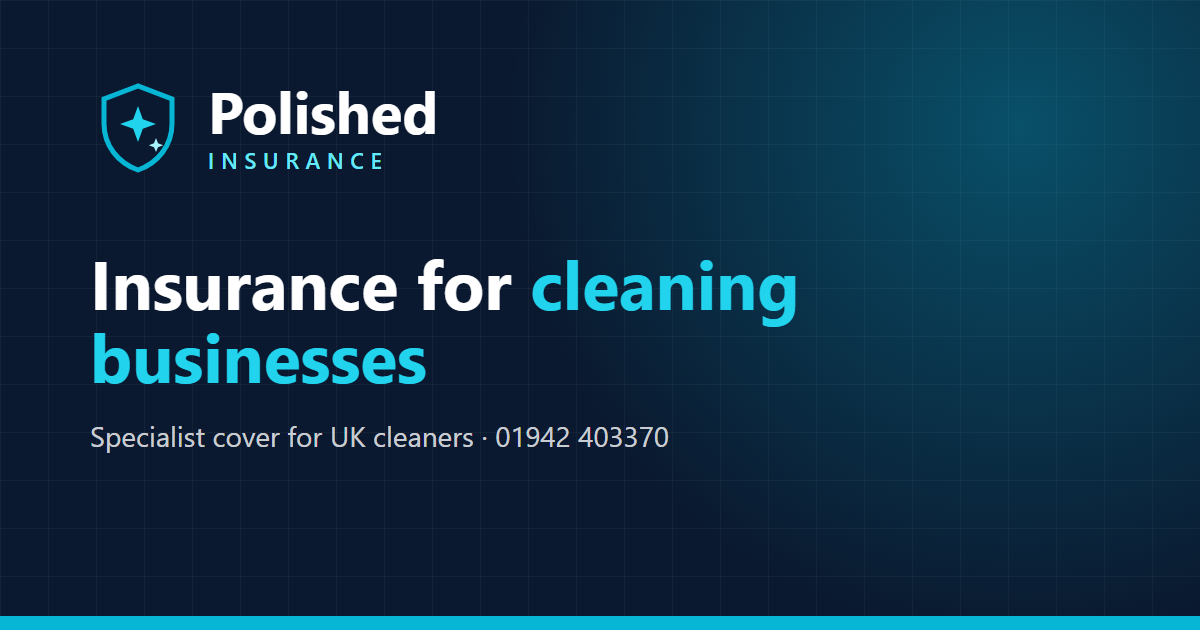
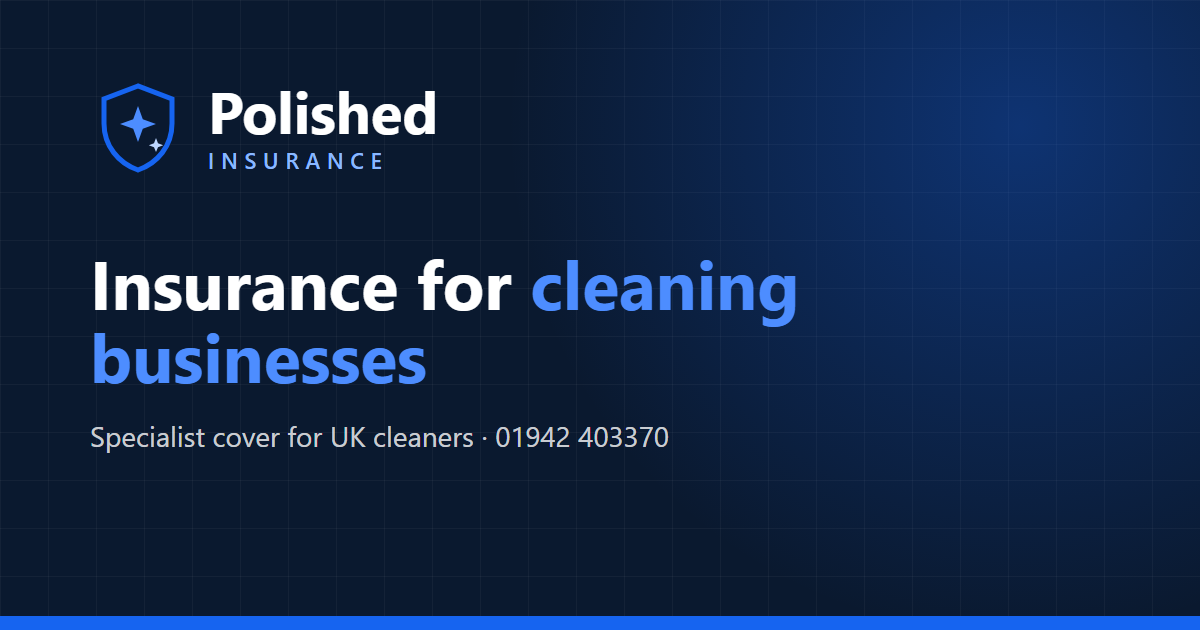
Replace cyan with a bright blue secondary colour
- New palette: bright blue #1664f0, light blue #8ab8ff on navy, deep blue #0b4fd0 for links
- White text on blue buttons, badges and step markers for contrast
- Applied to the website, logo, favicon, social image, CRM, printouts and client emails

diff --git a/crm/assets/style.css b/crm/assets/style.css
@@ -1,5 +1,5 @@
 /* Polished CRM styles — based on the Boxx CRM stylesheet, re-coloured for Polished Insurance. */
-:root{--brand:#0a192f;--accent:#06b6d4}
+:root{--brand:#0a192f;--accent:#1664f0}
 *{box-sizing:border-box}
 body{margin:0;font-family:Arial,Helvetica,sans-serif;color:#1f2733;background:#f4f6f9;font-size:14px;line-height:1.45}
 .wrap{max-width:1120px;margin:0 auto;padding:0 20px}
@@ -13,7 +13,7 @@ h1{font-size:22px;margin:0 0 4px}h2{font-size:15px;margin:0 0 10px;color:#0a192f
 .topbar nav{display:flex;gap:10px;margin-left:10px}
 .topbar nav a.nav-btn{background:#fff;color:#0a192f;padding:6px 14px;border-radius:20px;font-weight:bold;font-size:13px;white-space:nowrap}
 .topbar nav a.nav-btn:hover{background:#eef2f6;text-decoration:none}
-.topbar nav a.nav-btn.active{background:#22d3ee;color:#1f2733}
+.topbar nav a.nav-btn.active{background:#4d8dff;color:#1f2733}
 .who{margin-left:auto;color:#94a3b8;font-size:12.5px}.who a{color:#e2e8f0}
 main.wrap{padding-top:22px;padding-bottom:60px;min-height:70vh}
 .foot{border-top:1px solid #e2e8ef;color:#8a97a5;font-size:12px;padding:16px 0;margin-top:40px;background:#fff}
@@ -158,8 +158,8 @@ dl dd{margin:0}
 /* ---------- Polished additions ---------- */
 .btn.ghost.danger{color:#b42323;border-color:#f3c6c6}
 .logo{gap:10px;color:#fff;font-size:18px}.logo:hover{text-decoration:none}
-.logo-mark{display:inline-flex;align-items:center;justify-content:center;width:30px;height:30px;border-radius:8px;background:var(--accent);color:#0a192f;font-weight:bold}
-.logo-text{font-weight:bold;color:#fff}.logo-text em{font-style:normal;color:#22d3ee;font-weight:normal}
+.logo-mark{display:inline-flex;align-items:center;justify-content:center;width:30px;height:30px;border-radius:8px;background:var(--accent);color:#fff;font-weight:bold}
+.logo-text{font-weight:bold;color:#fff}.logo-text em{font-style:normal;color:#4d8dff;font-weight:normal}
 .topbar nav a.nav-btn.active{color:#0a192f}
 .kpis{display:grid;grid-template-columns:repeat(4,1fr);gap:12px;margin-bottom:16px}
 .kpi{background:#fff;border:1px solid #e2e8ef;border-left:4px solid var(--accent);border-radius:8px;padding:12px 14px;color:#1f2733}
@@ -185,7 +185,7 @@ dl dd{margin:0}
 .pill.q-in_progress{background:#fff0d0;color:#96650a}
 .pill.q-submitted{background:#d8f5e3;color:#0a7a3d}
 .pill.st-new-enquiry{background:#e0f2fe;color:#075985}
-.pill.st-questionnaire-completed,.pill.st-quoting,.pill.st-quote-sent{background:#e6f7fb;color:#0e7490}
+.pill.st-questionnaire-completed,.pill.st-quoting,.pill.st-quote-sent{background:#e8f0ff;color:#0b4fd0}
 .pill.st-won{background:#d8f5e3;color:#0a7a3d}
 .pill.st-lost,.pill.st-not-proceeding,.pill.st-closed{background:#f1f2f4;color:#8a97a5}
 .task-view-toggle .btn.active{color:#fff}

diff --git a/website/src/components/resource/ResourcePage.css b/website/src/components/resource/ResourcePage.css
@@ -1,4 +1,4 @@
-/* Copied from the Boxx Finance site (src/components/resource/ResourcePage.css) and re-coloured: gold/cream panels -> cyan/pale-blue. */
+/* Copied from the Boxx Finance site (src/components/resource/ResourcePage.css) and re-coloured: gold/cream panels -> bright blue/pale blue. */
 /* ── Resource page: shared single-column layout for articles + locations ─────
    Pattern follows the best-performing broker content sites: hero with image,
    one centered readable column, in-content CTAs, one floating CTA. ────────── */
@@ -65,7 +65,7 @@
     font-weight: 600;
     letter-spacing: 0.12em;
     text-transform: uppercase;
-    color: var(--color-secondary);
+    color: var(--color-secondary-light);
     margin: 0 0 1rem;
 }
 .resource-hero h1 {
@@ -117,7 +117,7 @@
     content: "✔";
     position: absolute;
     left: 0;
-    color: var(--color-secondary);
+    color: var(--color-secondary-light);
 }
 /* Optional, rendered via ResourceHero's afterTrust prop — only the homepage
    uses this today, for its "also arranging..." line. */
@@ -482,7 +482,7 @@
     width: 56px;
     height: 56px;
     background: var(--color-secondary);
-    color: var(--color-primary);
+    color: #fff;
     font-family: inherit;
     padding: 0;
     border-radius: 50%;
@@ -560,12 +560,12 @@
 }
 
 /* ── Polished additions ─────────────────────────────────────────────────── */
-/* No photo: navy with a soft cyan glow + fine grid so the hero never looks flat. */
+/* No photo: navy with a soft blue glow + fine grid so the hero never looks flat. */
 .resource-hero.has-pattern {
   background-color: var(--color-primary);
   background-image:
-    radial-gradient(circle at 85% 20%, rgba(6, 182, 212, 0.28), transparent 45%),
-    radial-gradient(circle at 70% 90%, rgba(103, 232, 249, 0.12), transparent 40%),
+    radial-gradient(circle at 85% 20%, rgba(22, 100, 240, 0.28), transparent 45%),
+    radial-gradient(circle at 70% 90%, rgba(138, 184, 255, 0.12), transparent 40%),
     linear-gradient(rgba(255, 255, 255, 0.035) 1px, transparent 1px),
     linear-gradient(90deg, rgba(255, 255, 255, 0.035) 1px, transparent 1px);
   background-size: auto, auto, 44px 44px, 44px 44px;

diff --git a/website/src/pages/Questionnaire.css b/website/src/pages/Questionnaire.css
@@ -18,7 +18,7 @@
   border-radius: 999px; padding: 0.38rem 0.85rem; font-size: 0.8rem; font-weight: 500;
 }
 .q-steps button.is-done { border-color: var(--color-secondary); color: #fff; }
-.q-steps button.is-current { background: var(--color-secondary); border-color: var(--color-secondary); color: var(--color-primary); font-weight: 700; }
+.q-steps button.is-current { background: var(--color-secondary); border-color: var(--color-secondary); color: #fff; font-weight: 700; }
 
 .q-card { background: #fff; border-radius: 16px; box-shadow: 0 16px 40px rgba(10, 25, 47, 0.12); padding: 2.25rem 2.25rem 1.75rem; }
 @media (max-width: 600px) { .q-card { padding: 1.5rem 1.15rem 1.25rem; border-radius: 12px; } .q-page { padding-top: 5.5rem; } }
@@ -43,9 +43,9 @@
   width: 100%; padding: 0.72rem 0.85rem; border: 1px solid #cfd8e0; border-radius: 8px; font: inherit; font-size: 1rem; background: #fbfcfd; color: var(--color-text-dark);
 }
 .q-field input:focus, .q-field textarea:focus, .q-field select:focus, .q-table-cell input:focus, .q-pgroup input:focus {
-  outline: none; border-color: var(--color-secondary); box-shadow: 0 0 0 3px rgba(6, 182, 212, 0.2); background: #fff;
+  outline: none; border-color: var(--color-secondary); box-shadow: 0 0 0 3px rgba(22, 100, 240, 0.2); background: #fff;
 }
-.q-field input.is-prefilled { background: #f0fbfd; border-color: #a5e3f0; }
+.q-field input.is-prefilled { background: #f0f5ff; border-color: #b7cff8; }
 .q-prefilled-note { font-size: 0.8rem; color: var(--color-secondary-dark); margin: 0.35rem 0 0; }
 .q-field .q-adorned, .q-pgroup .q-adorned { position: relative; display: block; max-width: 280px; }
 .q-adorned input { padding-left: 1.8rem !important; }

diff --git a/website/src/index.css b/website/src/index.css
@@ -1,17 +1,17 @@
 /* Global design tokens — same structure as the Boxx Finance site, re-coloured for Polished
-   (navy + clean cyan instead of navy + gold). */
+   (navy + bright blue instead of navy + gold). */
 :root {
   --color-primary: #0a192f;
   --color-primary-dark: #010816;
-  --color-secondary: #06b6d4;
-  --color-secondary-light: #67e8f9;
-  --color-secondary-dark: #0e7490;
+  --color-secondary: #1664f0;  /* bright blue */
+  --color-secondary-light: #8ab8ff;
+  --color-secondary-dark: #0b4fd0;
   --color-text-dark: #28313d;
   --color-text-light: #f4f4f4;
   --color-white: #ffffff;
   --color-bg-light: #f6f8fa;
-  --color-panel: #eff9fb;
-  --color-panel-border: #cdeef4;
+  --color-panel: #eef4ff;
+  --color-panel-border: #d3e2fd;
 
   --font-heading: 'Outfit', system-ui, sans-serif;
   --font-body: 'Inter', system-ui, sans-serif;
@@ -63,8 +63,8 @@ img { max-width: 100%; }
   line-height: 1.3;
   text-align: center;
 }
-.btn-primary { background-color: var(--color-secondary); color: var(--color-primary); }
-.btn-primary:hover { background-color: var(--color-secondary-light); transform: translateY(-2px); }
+.btn-primary { background-color: var(--color-secondary); color: #fff; }
+.btn-primary:hover { background-color: #0f55d8; color: #fff; transform: translateY(-2px); box-shadow: 0 8px 18px rgba(22, 100, 240, 0.35); }
 .btn-primary:disabled { opacity: 0.6; transform: none; cursor: wait; }
 .btn-outline { background: transparent; border: 2px solid var(--color-white); color: var(--color-white); }
 .btn-outline:hover { background: var(--color-white); color: var(--color-primary); }

diff --git a/website/src/App.css b/website/src/App.css
@@ -29,8 +29,8 @@
 .step::before {
   counter-increment: step; content: counter(step);
   position: absolute; top: -18px; left: 1.75rem; width: 36px; height: 36px; border-radius: 50%;
-  background: var(--color-secondary); color: var(--color-primary); font-weight: 700; font-family: var(--font-heading);
-  display: flex; align-items: center; justify-content: center; box-shadow: 0 4px 10px rgba(6, 182, 212, 0.35);
+  background: var(--color-secondary); color: #fff; font-weight: 700; font-family: var(--font-heading);
+  display: flex; align-items: center; justify-content: center; box-shadow: 0 4px 10px rgba(22, 100, 240, 0.35);
 }
 .step h3 { margin: 0.5rem 0 0.5rem; font-size: 1.25rem; }
 .step p { margin: 0; color: #5b6472; }
@@ -42,7 +42,7 @@
 .why .text-highlight { color: #fff; }
 .why-grid { display: grid; grid-template-columns: repeat(auto-fit, minmax(240px, 1fr)); gap: 1.5rem; }
 .why-item { border: 1px solid rgba(255, 255, 255, 0.12); border-radius: 12px; padding: 1.75rem; background: rgba(255, 255, 255, 0.03); }
-.why-item .service-icon { background: rgba(6, 182, 212, 0.15); color: var(--color-secondary-light); }
+.why-item .service-icon { background: rgba(22, 100, 240, 0.15); color: var(--color-secondary-light); }
 .why-item p { margin: 0; }
 
 /* ── Guides teaser ── */

diff --git a/website/src/components/Logo.jsx b/website/src/components/Logo.jsx
@@ -4,9 +4,9 @@ import React from 'react';
 const Logo = ({ light = false, size = 38 }) => (
   <span className={`logo${light ? ' logo-light' : ''}`}>
     <svg width={size} height={size} viewBox="0 0 48 48" aria-hidden="true">
-      <path d="M24 3 7 9.5v12.2C7 33 14.3 41.6 24 45c9.7-3.4 17-12 17-23.3V9.5z" fill="#0a192f" stroke="#06b6d4" strokeWidth="2.5" />
-      <path d="M24 13l2.4 6.6L33 22l-6.6 2.4L24 31l-2.4-6.6L15 22l6.6-2.4z" fill="#22d3ee" />
-      <path d="M33 29l1 2.6 2.6 1-2.6 1L33 36l-1-2.4-2.6-1 2.6-1z" fill="#a5f3fc" />
+      <path d="M24 3 7 9.5v12.2C7 33 14.3 41.6 24 45c9.7-3.4 17-12 17-23.3V9.5z" fill="#0a192f" stroke="#1664f0" strokeWidth="2.5" />
+      <path d="M24 13l2.4 6.6L33 22l-6.6 2.4L24 31l-2.4-6.6L15 22l6.6-2.4z" fill="#4d8dff" />
+      <path d="M33 29l1 2.6 2.6 1-2.6 1L33 36l-1-2.4-2.6-1 2.6-1z" fill="#bcd6ff" />
     </svg>
     <span className="logo-text">
       <span className="logo-word">Polished</span>

diff --git a/crm/assets/questionnaire.css b/crm/assets/questionnaire.css
@@ -3,8 +3,8 @@
    the CRM's own style.css. Colours re-pointed at the Polished palette. */
 .qwrap {
   --green: #0a192f;
-  --green-light: #0891b2;
-  --green-pale: #e6f7fb;
+  --green-light: #1664f0;
+  --green-pale: #e8f0ff;
   --ink: #1f2733;
   --muted: #5b6472;
   --border: #d4dae2;
@@ -151,7 +151,7 @@
   padding: .6rem .9rem; margin-bottom: 1rem; font-size: .82rem; color: var(--muted);
 }
 
-.qwrap .qbadge-client { background: #e6f7fb; color: #0e7490; border: 1px solid #a5e3f0; }
+.qwrap .qbadge-client { background: #e8f0ff; color: #0b4fd0; border: 1px solid #b7cff8; }
 .qwrap .na-banner { border-left-color: var(--muted); background: #eef0f3; }
 .qwrap .progress-nav a.na { opacity: .5; font-style: italic; }
 .qwrap .progress-nav { top: 0; }

diff --git a/website/src/components/QuoteForm.css b/website/src/components/QuoteForm.css
@@ -16,7 +16,7 @@
   width: 100%; padding: 0.75rem 0.85rem; border: 1px solid #cfd8e0; border-radius: 8px;
   font: inherit; font-size: 1rem; color: var(--color-text-dark); background: #fbfcfd;
 }
-.qf-field input:focus { outline: none; border-color: var(--color-secondary); box-shadow: 0 0 0 3px rgba(6, 182, 212, 0.22); background: #fff; }
+.qf-field input:focus { outline: none; border-color: var(--color-secondary); box-shadow: 0 0 0 3px rgba(22, 100, 240, 0.22); background: #fff; }
 .has-error input { border-color: #c2410c; }
 .qf-error { display: block; color: #b42318; font-size: 0.82rem; margin-top: 0.25rem; }
 .qf-hp { position: absolute; left: -10000px; width: 1px; height: 1px; overflow: hidden; }

diff --git a/website/src/pages/Home.css b/website/src/pages/Home.css
@@ -8,7 +8,7 @@
   padding: 1rem 1.25rem; background: none; border: 0; font-family: var(--font-heading);
   font-size: 1.06rem; font-weight: 600; color: var(--color-primary); text-align: left;
 }
-.home-faq .faq-question:hover { background: rgba(6, 182, 212, 0.06); }
+.home-faq .faq-question:hover { background: rgba(22, 100, 240, 0.06); }
 .home-faq .faq-icon { font-size: 1.5rem; color: var(--color-secondary-dark); }
 .home-faq .faq-answer { padding: 0 1.25rem 1.25rem; }
 .home-faq .faq-answer p { margin: 0; line-height: 1.7; }

diff --git a/website/src/components/Article.css b/website/src/components/Article.css
@@ -86,7 +86,7 @@
     font-size: 0.72rem;
     font-weight: 600;
     letter-spacing: 0.02em;
-    color: var(--color-primary);
+    color: #fff;
     background: var(--color-secondary);
     padding: 0.3rem 0.7rem;
     border-radius: 999px;
@@ -358,7 +358,7 @@
 
 /* Soft CTA — lighter, left gold accent bar */
 .article-cta-soft {
-    background: #f5fbfc;
+    background: #f5f8ff;
     border-left: 4px solid var(--color-secondary);
 }
 

diff --git a/website/src/pages/GetAQuote.css b/website/src/pages/GetAQuote.css
@@ -1,7 +1,7 @@
 .quote-page { background: #fff; }
 .quote-page-hero {
   background-color: var(--color-primary);
-  background-image: radial-gradient(circle at 90% 10%, rgba(6, 182, 212, 0.25), transparent 45%);
+  background-image: radial-gradient(circle at 90% 10%, rgba(22, 100, 240, 0.25), transparent 45%);
   color: rgba(255, 255, 255, 0.85);
   padding: 8.5rem 0 4rem;
 }

diff --git a/crm/inc/messages.php b/crm/inc/messages.php
@@ -16,7 +16,7 @@ function msg_email_wrap(string $innerHtml): string {
     $phone = e(cfg('company_phone', '01942 403370'));
     return '<div style="font-family:Arial,Helvetica,sans-serif;font-size:15px;line-height:1.55;color:#1f2733;max-width:600px">'
         . '<div style="background:#0a192f;padding:18px 24px;border-radius:8px 8px 0 0">'
-        . '<span style="color:#22d3ee;font-weight:bold;font-size:20px">Polished</span> '
+        . '<span style="color:#4d8dff;font-weight:bold;font-size:20px">Polished</span> '
         . '<span style="color:#ffffff;font-size:20px">Insurance</span></div>'
         . '<div style="border:1px solid #e2e8ef;border-top:0;padding:22px 24px;border-radius:0 0 8px 8px">'
         . $innerHtml
@@ -29,7 +29,7 @@ function msg_email_wrap(string $innerHtml): string {
 }
 
 function msg_button(string $link, string $label): string {
-    return '<p style="margin:22px 0"><a href="' . e($link) . '" style="background:#06b6d4;color:#0a192f;font-weight:bold;'
+    return '<p style="margin:22px 0"><a href="' . e($link) . '" style="background:#1664f0;color:#ffffff;font-weight:bold;'
         . 'padding:13px 22px;border-radius:6px;text-decoration:none;display:inline-block">' . e($label) . '</a></p>'
         . '<p style="font-size:12.5px;color:#6b7785">If the button does not work, copy this link into your browser:<br>' . e($link) . '</p>';
 }
